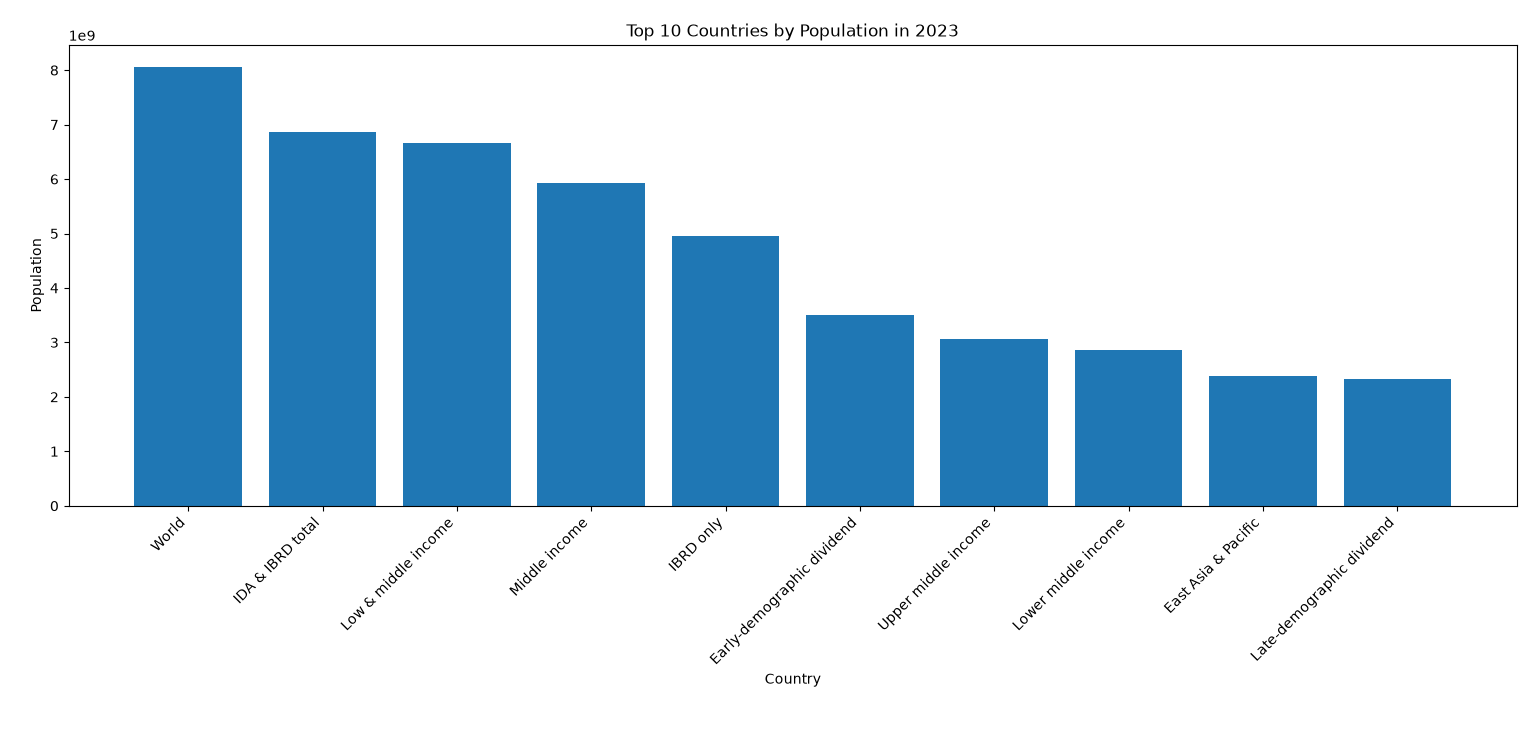
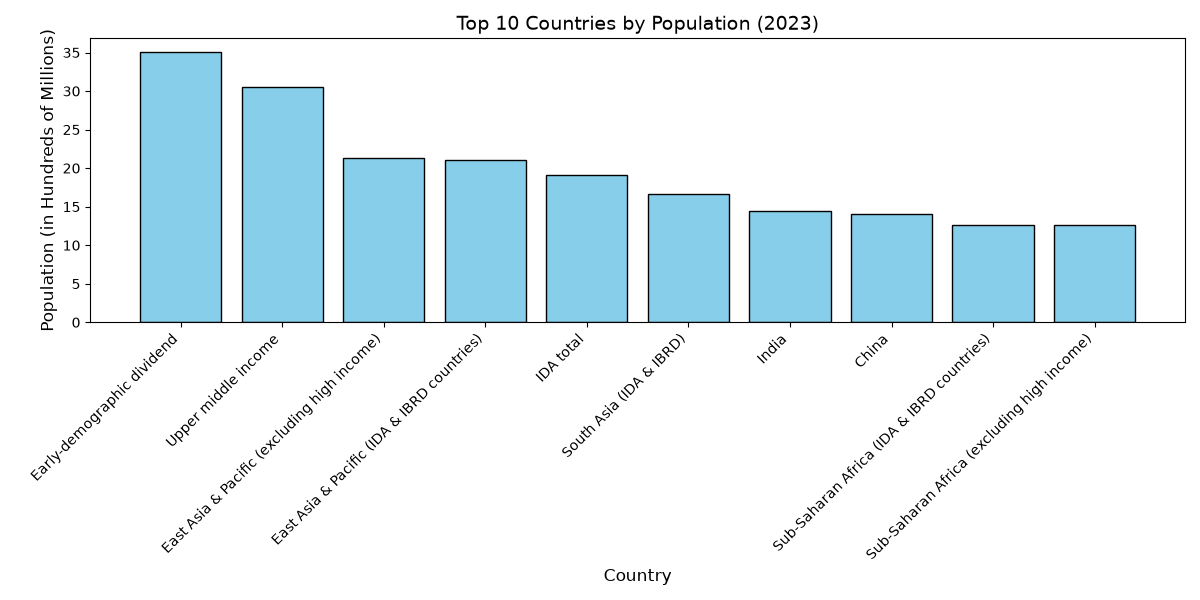
Updated README with task details, chart output, and code updates

diff --git a/task1.py b/task1.py
@@ -1,20 +1,41 @@
+
 import pandas as pd
 import matplotlib.pyplot as plt
-data = pd.read_csv("API_SP.POP.TOTL_DS2_en_csv_v2_379644.csv",skiprows=4)
-print(data.head())
-# Select the top 10 countries by population
-top10 = data.nlargest(10, "2023")
 
-# Create the bar chart
+# 1. Read dataset skipping metadata rows
+data = pd.read_csv("API_SP.POP.TOTL_DS2_en_csv_v2_379644.csv", skiprows=4)
+
+# 2. Convert 2023 population column to numeric, ignoring errors
+data["2023"] = pd.to_numeric(data["2023"], errors="coerce")
+
+# 3. Filter out non-country regional aggregates
+aggregates = [
+    "World", "High income", "OECD members", "Post-demographic dividend", 
+    "IDA & IBRD total", "Low & middle income", "Middle income", 
+    "IBRD only", "East Asia & Pacific", "Late-demographic dividend", 
+    "South Asia", "Lower middle income", "Africa Eastern and Southern",
+    "Africa Western and Central", "Sub-Saharan Africa", "European Union",
+    "Latin America & Caribbean", "Middle East & North Africa", "North America"
+]
+
+# Drop rows without population data and exclude aggregate groups
+df_countries = data.dropna(subset=["2023"]).copy()
+df_countries = df_countries[~df_countries["Country Name"].isin(aggregates)]
+
+# 4. Get top 10 countries by 2023 population
+top10 = df_countries.nlargest(10, "2023")
+
+# 5. Create bar chart
 plt.figure(figsize=(12, 6))
+plt.bar(top10["Country Name"], top10["2023"] / 1e8, color="skyblue", edgecolor="black")
 
-plt.bar(top10["Country Name"], top10["2023"])
-
-plt.title("Top 10 Countries by Population in 2023")
-plt.xlabel("Country")
-plt.ylabel("Population")
+plt.title("Top 10 Countries by Population (2023)", fontsize=14)
+plt.xlabel("Country", fontsize=12)
+plt.ylabel("Population (in Hundreds of Millions)", fontsize=12)
 
 plt.xticks(rotation=45, ha="right")
 plt.tight_layout()
 
+# 6. Save image and display
+plt.savefig("population_bar_chart.png", dpi=300)
 plt.show()
